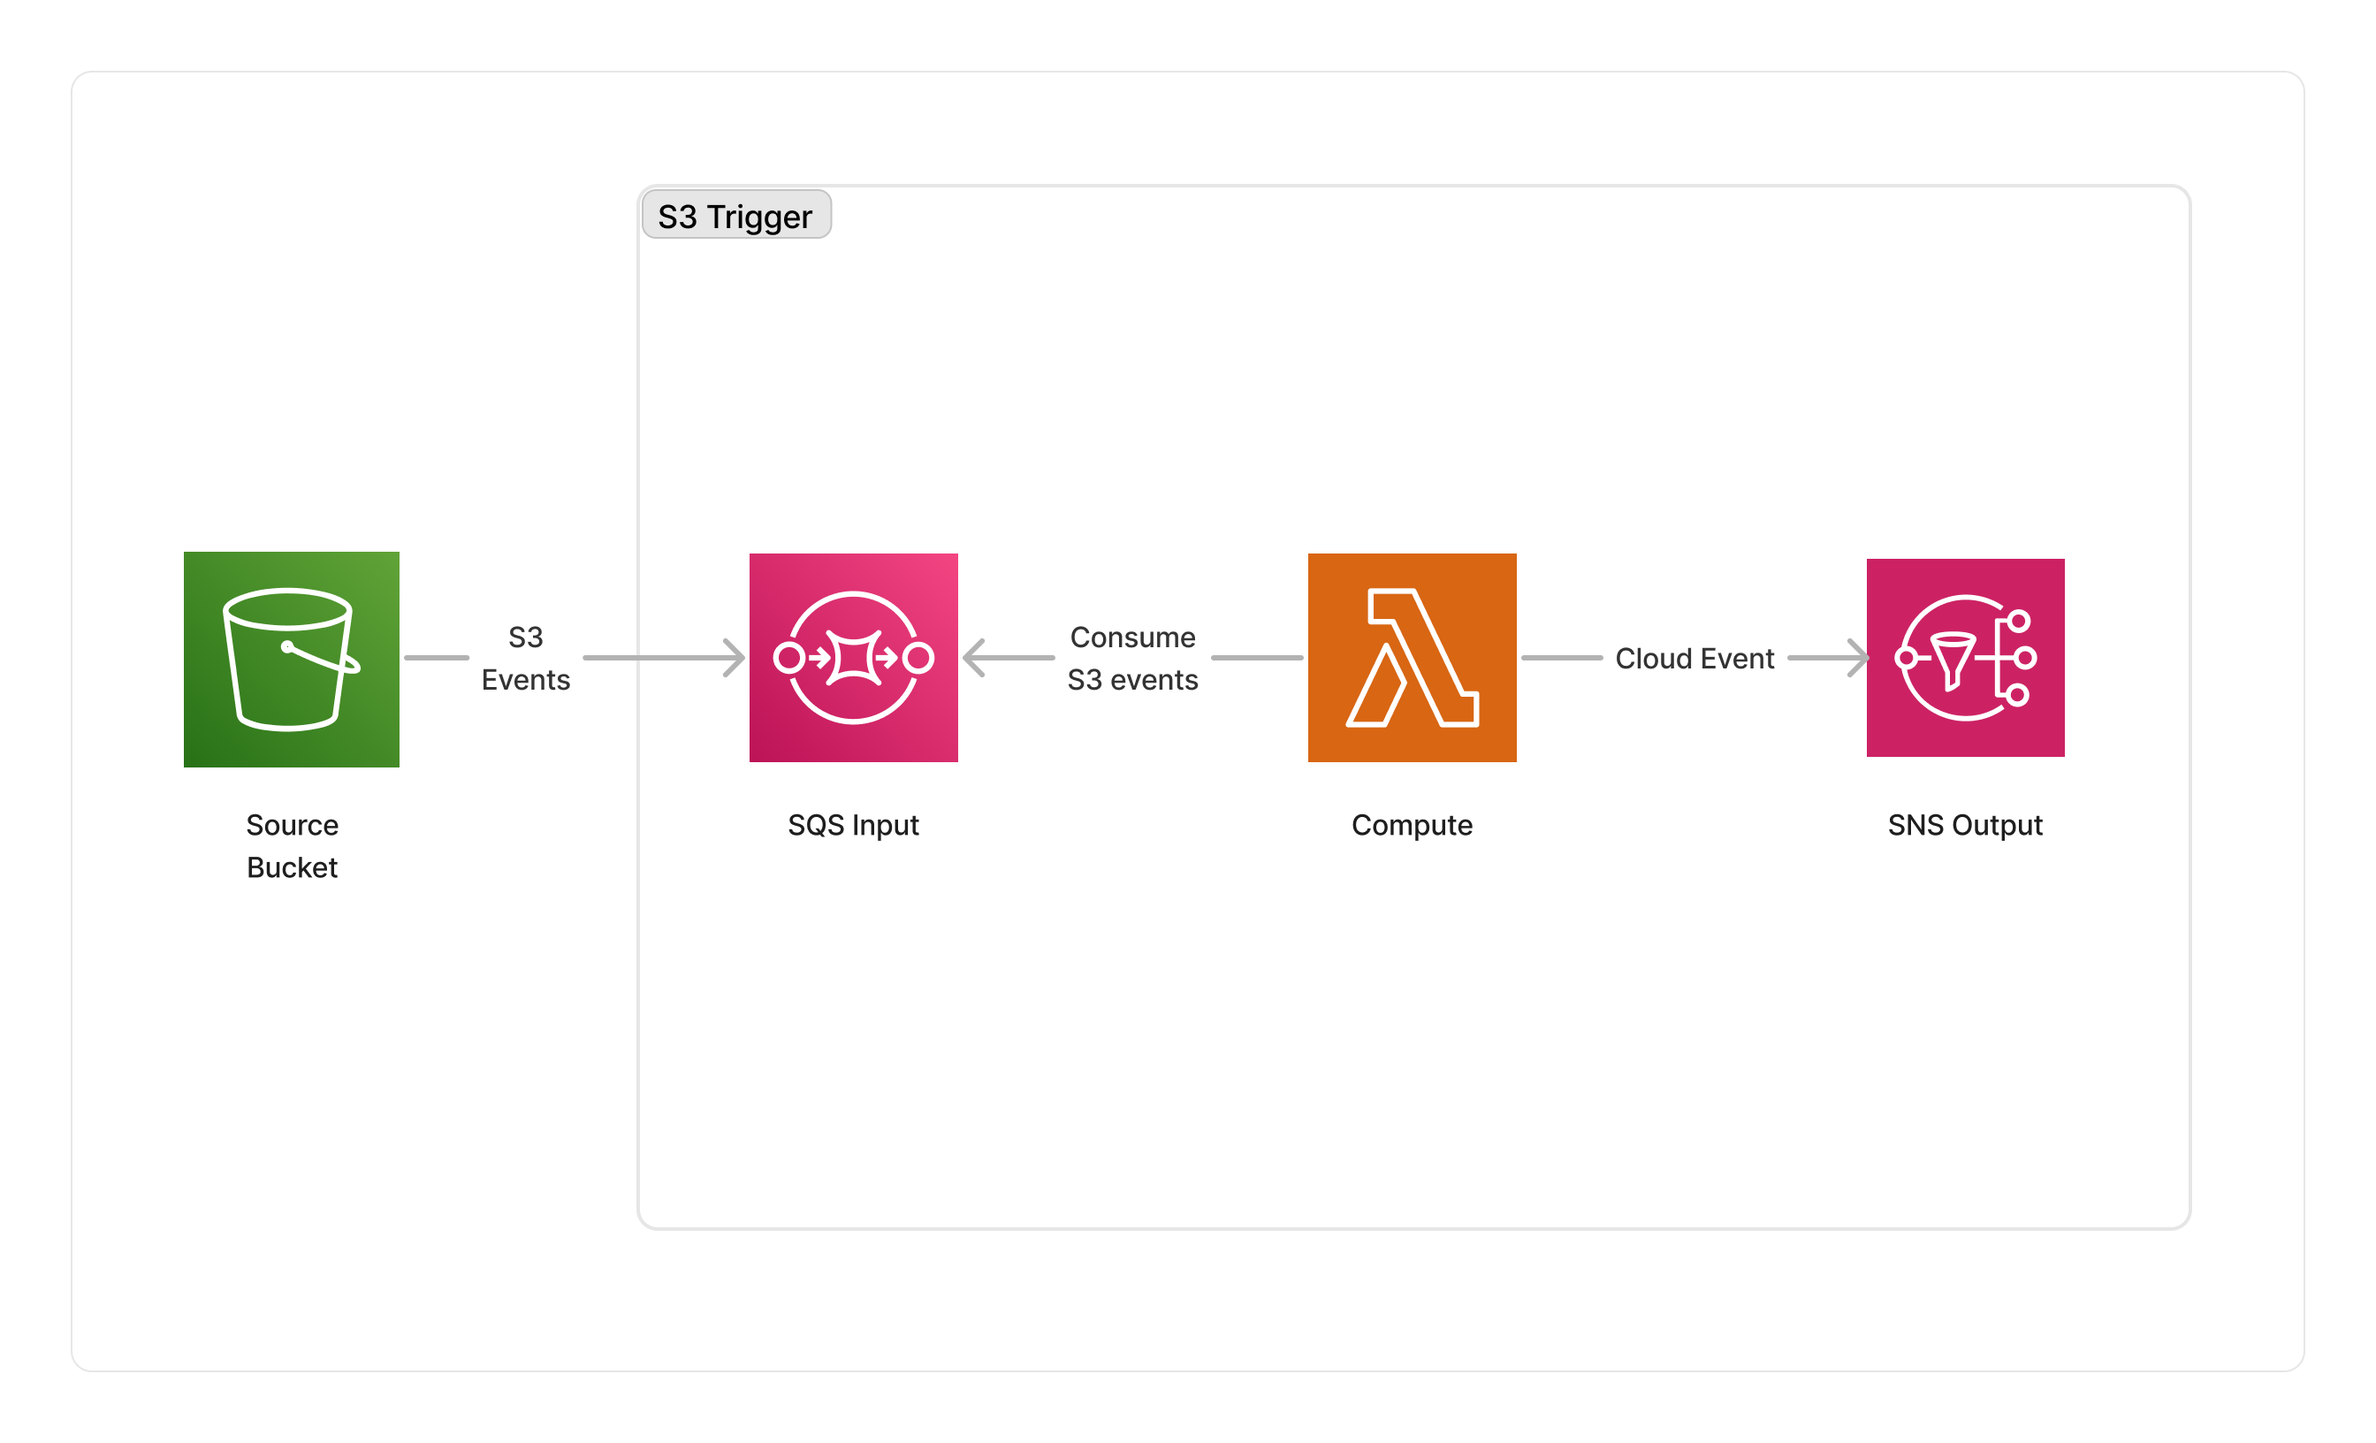
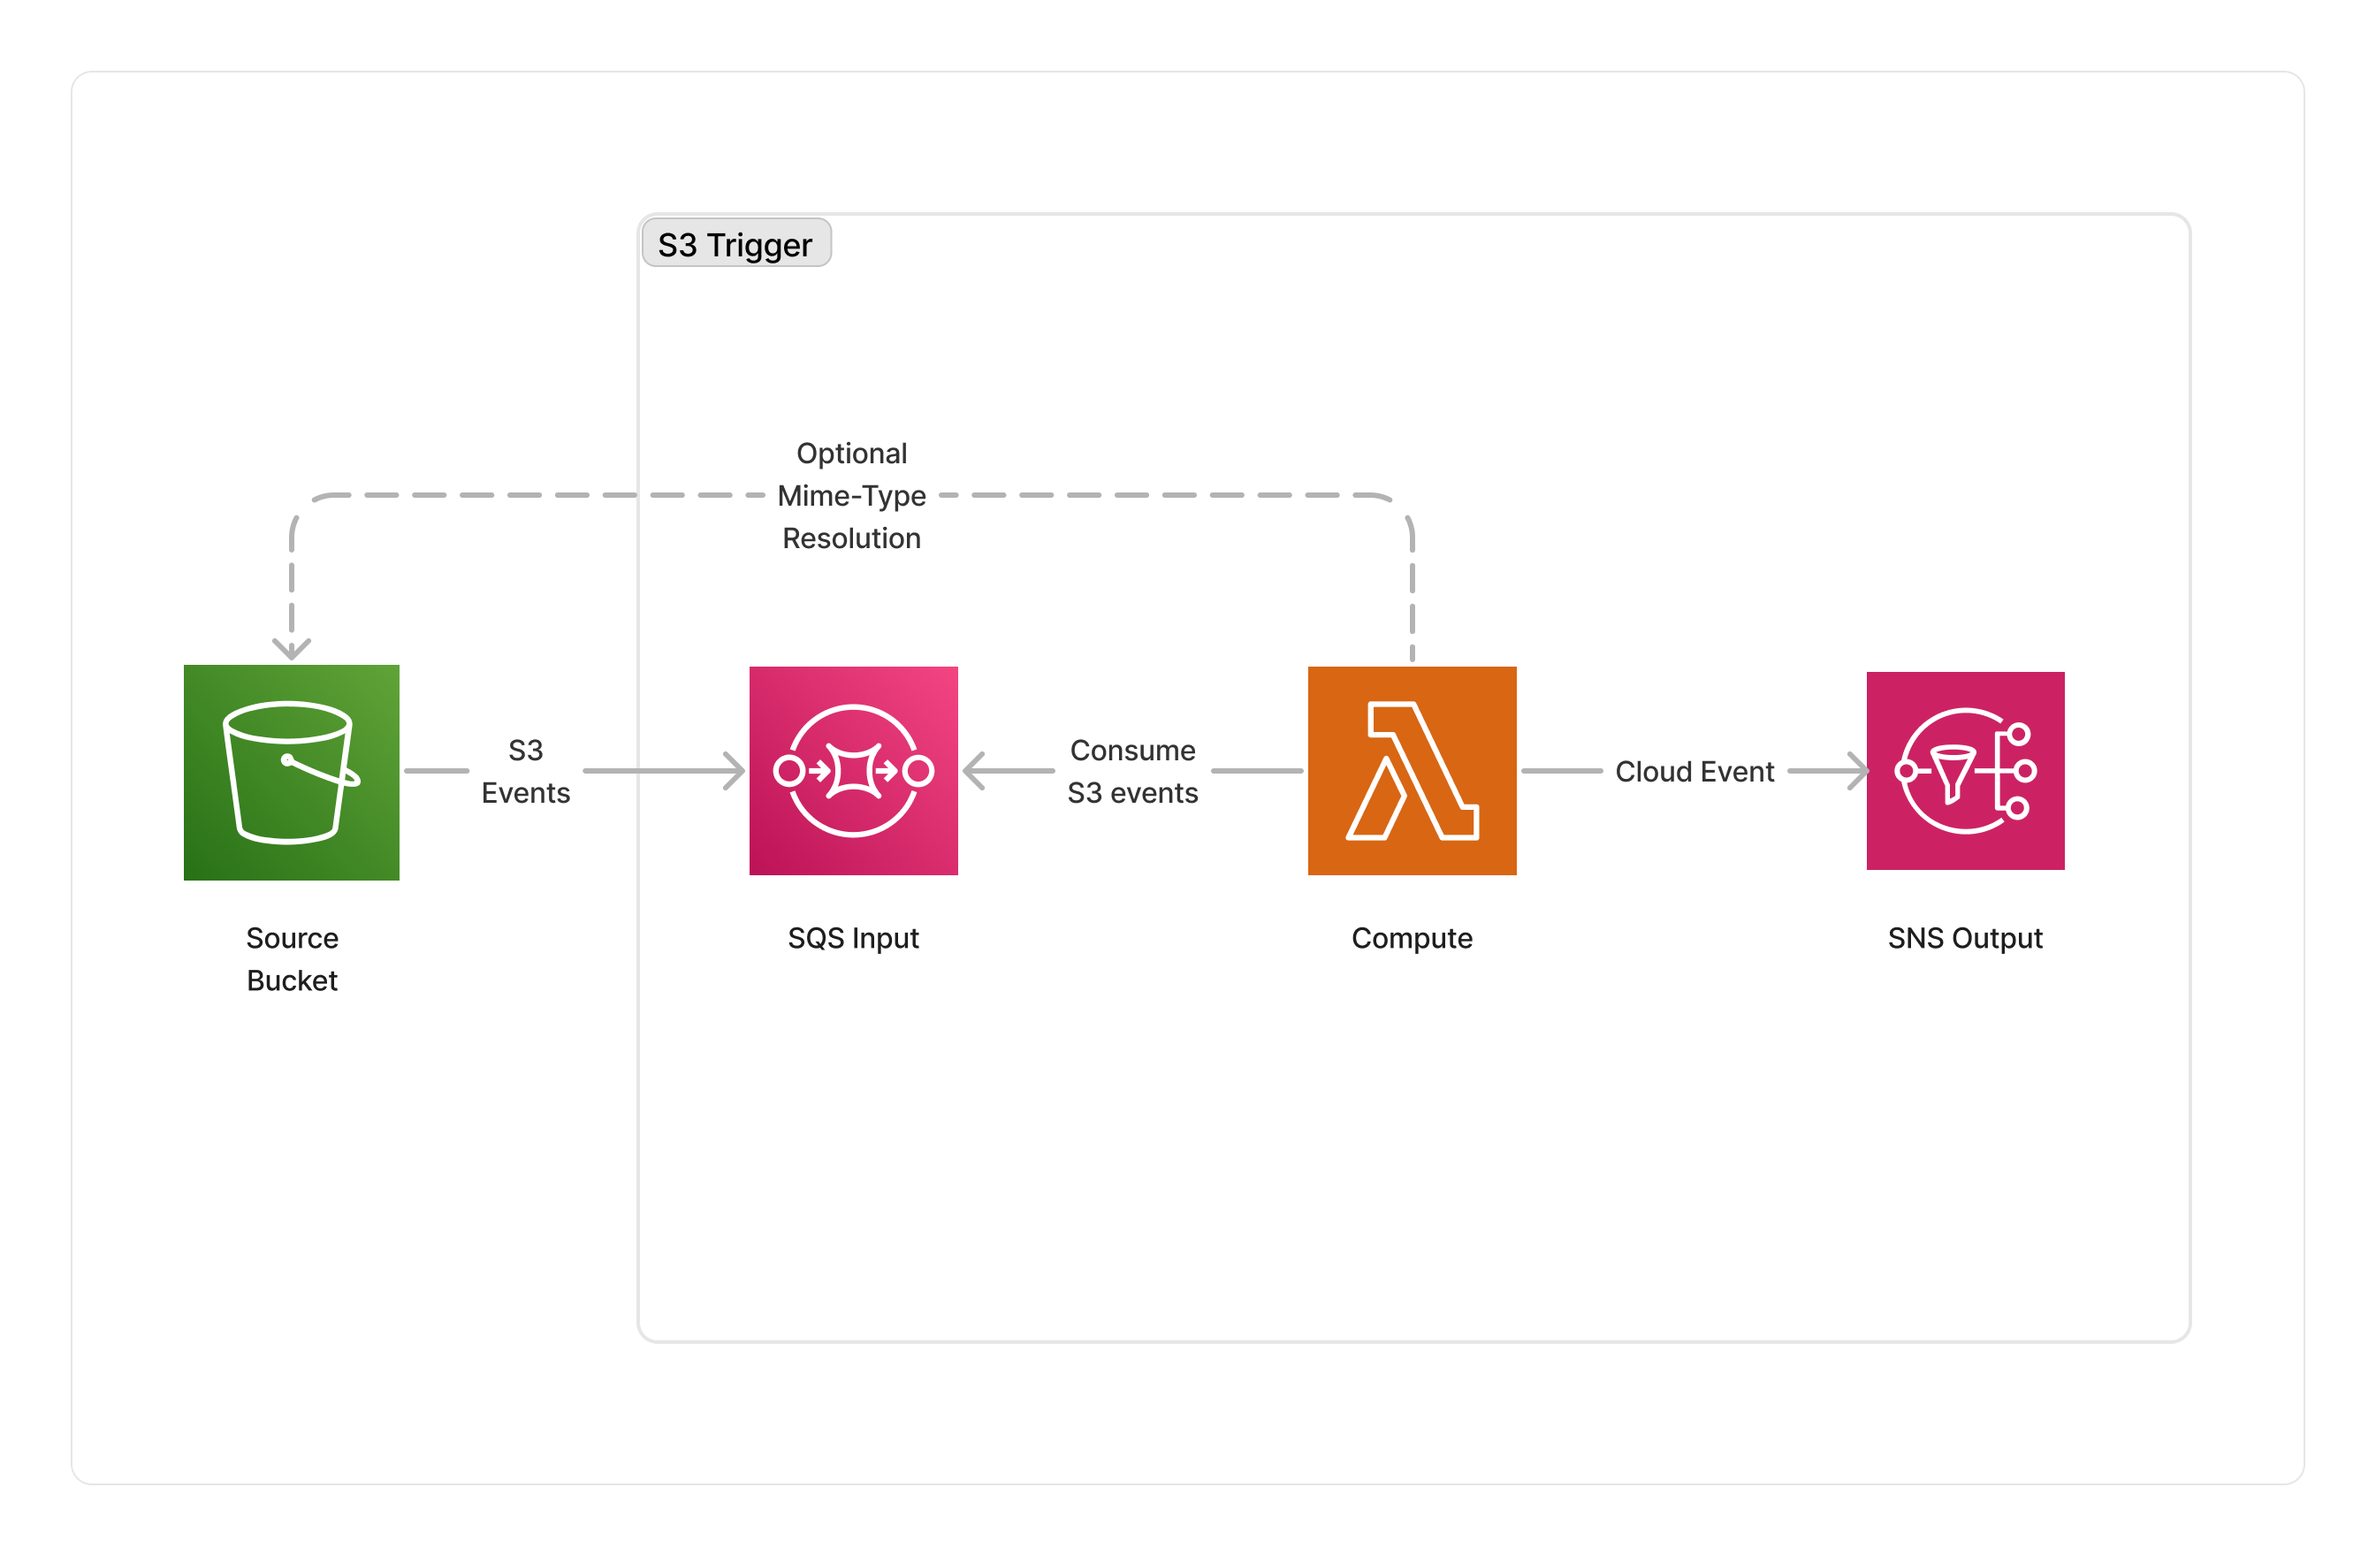
fix(docs): add metadata description on s3 event trigger

diff --git a/docs/src/content/docs/triggers/s3-event-trigger.md b/docs/src/content/docs/triggers/s3-event-trigger.md
@@ -84,6 +84,23 @@ const trigger = new S3EventTrigger.Builder()
 
 ---
 
+### 🗂 Metadata
+
+The S3 event trigger middleware converts S3 native events into the [CloudEvents](/project-lakechain/general/events) specification and enriches the document description with required metadata, such as the mime-type, the size, and the Etag associated with the document.
+
+All those information cannot be inferred from the S3 event alone, and to efficiently compile those metadata, this middleware uses the following algorithm.
+
+1. The **Size**, **Etag**, and **URL** of the S3 object are taken from the S3 event and added to the Cloud Event.
+2. If the object is a directory, it is ignored, as this middleware only processes documents.
+3. The middleware tries to infer the mime-type of the document from the object extension.
+4. If the mime-type cannot be inferred from the extension, we try to infer it from the S3 reported content type.
+5. If the mime-type cannot be inferred from the S3 reported content type, we try to infer it from the first bytes of the document using a chunked request.
+6. If the mime-type cannot be inferred at all, we set the mime-type to `application/octet-stream`.
+
+<br>
+
+---
+
 ### 🏗 Architecture
 
 The S3 trigger receives S3 events from subscribed buckets on its SQS input queue. They are consumed by a Lambda function used to translate S3 events into a [CloudEvent](/project-lakechain/general/events). The Lambda function also takes care of identifying the mime-type of a document based on its extension, the S3 reported mime-type, or the content of the document itself.
